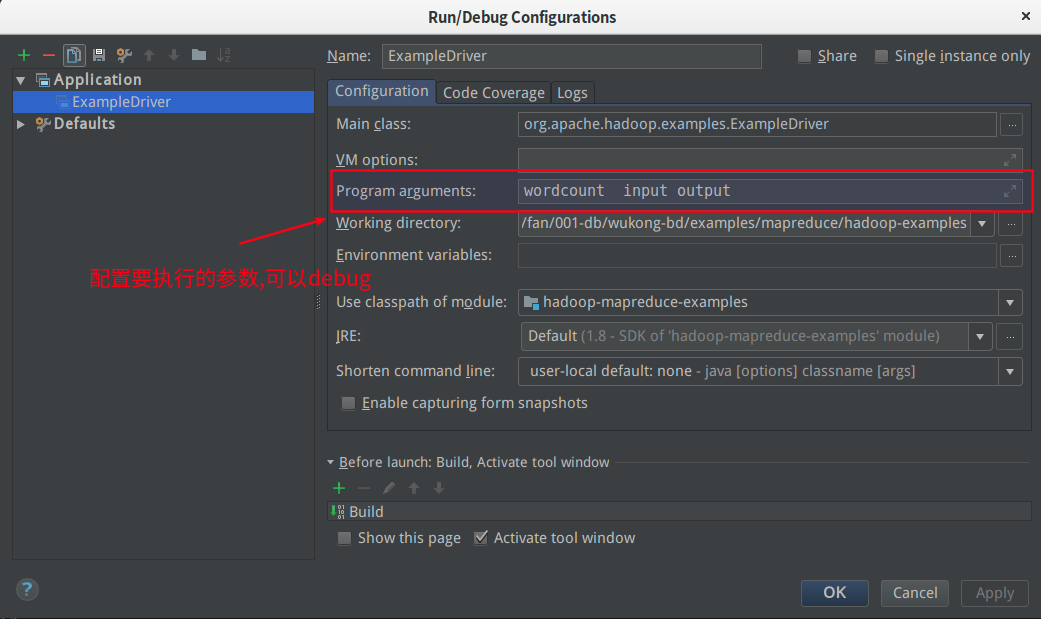
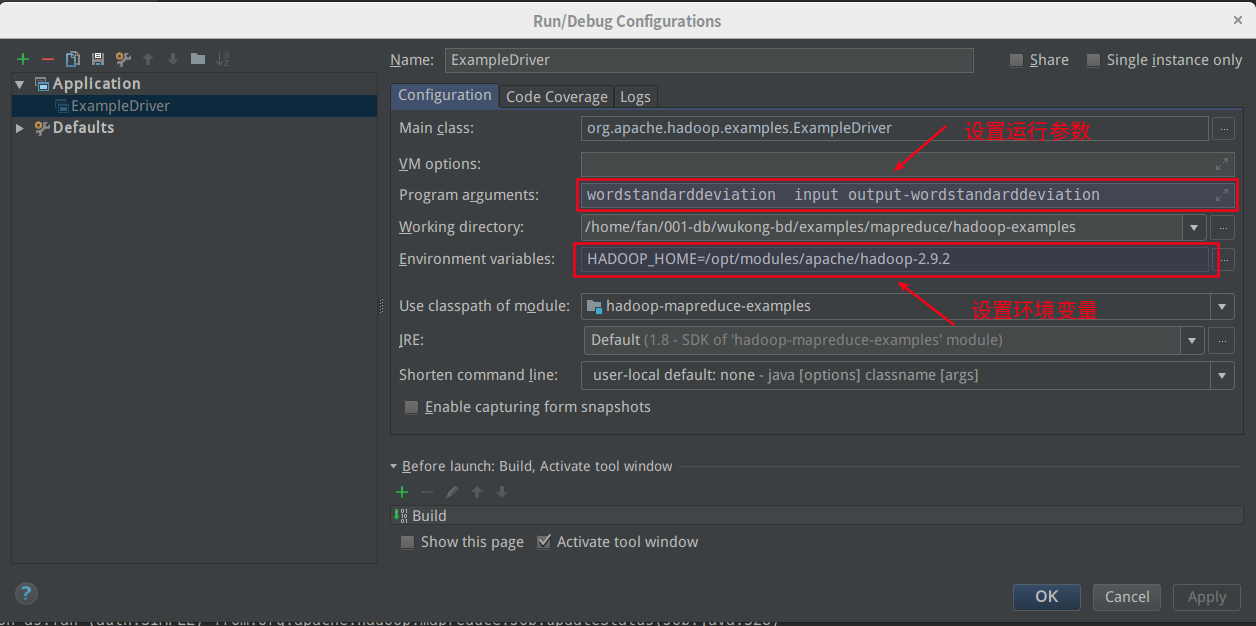
modify docs

diff --git a/examples/mapreduce/hadoop-examples/readme.md b/examples/mapreduce/hadoop-examples/readme.md
@@ -6,7 +6,7 @@
 
 
 
-## 编译
+## 如何建立IDEA工程
 
 从hadoop2.9.2-src包中精简的代码.具体步骤如下:
 
@@ -27,7 +27,7 @@
 
 
 
-> 设置jdk
+### 设置jdk
 
 
 
@@ -35,33 +35,43 @@
 
 
 
-> 配置日志目录与编译环境
+### 配置日志目录与编译环境
 
 ![alt](doc/imgs/project-seting.png)
 
 
 
-> 目录说明
+### 目录说明
 
 ![alt](doc/imgs/dir.png)
 
-
-
-
-
-## 本地运行
-
 将数据文件放到`input`目录中,就可以执行了.
+
+
+
+### 本地运行
 
 建议在本地运行就行了,这个代码不用传到服务器上了.
 
 ![art](doc/imgs/debug-seting.png)
 
+这里要是设置`HADOOP_HOME`,不然有些函数会报错
+
+HADOOP_HOME = /opt/modules/apache/hadoop-2.9.2
 
 
-### 可运行的函数
 
-####  input
+
+
+## 函数说明
+
+###  input数据
+
+只做了简单的测试,下面的函数,有些需要用到更复杂的文件.
+
+
+
+> input/a.txt 文件内容
 
 ```
 a
@@ -76,11 +86,11 @@ hhhhhhhh
 
 
 
-####  output
+###  相关函数
 
 
 
-#####  wordcount
+####  wordcount
 
   * A map/reduce program that counts the words in the input files.
   * 统计字数
@@ -98,7 +108,7 @@ hhhhhhhh	1
 
 
 
-#####  wordmean 
+####  wordmean 
 
   * A map/reduce program that counts the average length of the words in the input files.
   * 统计单词个数,并且输出总长度
@@ -112,7 +122,7 @@ length	36
 
 
 
-#####  wordmedian
+####  wordmedian
 
   * A map/reduce program that counts the median length of the words in the input files.
   * 按照长度,统计每种长度的文字有几个
@@ -131,7 +141,7 @@ length	36
 
 
 
-#####  wordstandarddeviation
+####  wordstandarddeviation
 
   * A map/reduce program that counts the standard deviation of the length of the words in the input files.
   * 标准偏差进行计数
@@ -142,31 +152,31 @@ length	36
 square	204
 ```
 
-##### aggregatewordcount
+#### aggregatewordcount
 
 An Aggregate based map/reduce program that counts the words in the input files.
 
 这个执行不了,因为
 
 ```
-HADOOP_HOME and hadoop.home.dir are unset.
+a.txt not a SequenceFile
 ```
 
 
 
-##### aggregatewordhist
+#### aggregatewordhist
 
 An Aggregate based map/reduce program that computes the histogram of the words in the input files.
 
 这个执行不了,因为
 
 ```
-HADOOP_HOME and hadoop.home.dir are unset.
+a.txt not a SequenceFile
 ```
 
 
 
-##### grep
+#### grep
 
 A map/reduce program that counts the matches of a regex in the input.
 
@@ -174,91 +184,91 @@ A map/reduce program that counts the matches of a regex in the input.
 
 
 
-##### randomwriter
+#### randomwriter
 
 随机写入10GB的数据,为每个节点
 
 A map/reduce program that writes 10GB of random data per node.
 
-##### randomtextwriter
+#### randomtextwriter
 
 A map/reduce program that writes 10GB of random textual data per node.
 
 随机写入10GB的数据,为每个节点
 
-##### sort
+#### sort
 
 A map/reduce program that sorts the data written by the random writer.
 
 这个执行不了,因为
 
 ```
-HADOOP_HOME and hadoop.home.dir are unset.
+a.txt not a SequenceFile
 ```
 
 
 
-##### pi
+#### pi
 
 A map/reduce program that estimates Pi using a quasi-Monte Carlo method.
 
 
 
-##### bbp
+#### bbp
 
 A map/reduce program that uses Bailey-Borwein-Plouffe to compute exact digits of Pi.
 
-##### distbbp
+#### distbbp
 
 A map/reduce program that uses a BBP-type formula to compute exact bits of Pi.
 
-##### pentomino
+#### pentomino
 
 A map/reduce tile laying program to find solutions to pentomino problems.
 
 
 
-##### secondarysort
+#### secondarysort
 
 An example defining a secondary sort to the reduce.
 
 
 
-##### sudoku
+#### sudoku
 
 A sudoku solver.
 
 
 
-##### join
+#### join
 
 A job that effects a join over sorted, equally partitioned datasets
 
 
 
-##### multifilewc
+#### multifilewc
 
 A job that counts words from several files.
 
 
 
-##### dbcount
+#### dbcount
 
 An example job that count the pageview counts from a database.
 
 
 
-##### teragen
+#### teragen
 
 Generate data for the terasort
 
 
 
-##### terasort
+#### terasort
 
 Run the terasort
 
-##### teravalidate
+#### teravalidate
 
 
 
@@ -269,10 +279,6 @@ Checking results of terasort
 
 
 ## 代码分析
-
-
-
-
 
 
 

diff --git a/examples/mapreduce/helloworld/readme.md b/examples/mapreduce/helloworld/readme.md
@@ -2,6 +2,8 @@
 
 这个例子是参考了hadoop官网关于mapreduce介绍文档做出来的.
 
+所有代码都在`ubuntu`上用`IDEA`调试通过,听说`windows`系统有很多小错误要处理.
+
 [官网介绍的具体地址](http://hadoop.apache.org/docs/stable/hadoop-mapreduce-client/hadoop-mapreduce-client-core/MapReduceTutorial.html)
 
 
@@ -72,15 +74,15 @@ TODO: 代码比较简单,那天有空加上中文注释.
 
 按照官网的文档,这个函数有不同的执行方法,并且输出不同的结果.
 
-> 不加过滤文件
+#### 不加过滤特殊字符
 
-参数
+> 参数
 
 ```
 input/wordcount2 output  
 ```
 
-结果
+> 结果
 
 ```
 Bye	1
@@ -97,17 +99,17 @@ to	1
 
 
 
-> 加过滤文件
+#### 过滤掉特殊字符
 
 过滤标点符号与特殊字符
 
-参数
+> 参数
 
 ```
 input/wordcount2 output  -skip input/patterns/patterns.txt
 ```
 
-结果
+> 结果
 
 ```
 Bye	1
@@ -120,17 +122,17 @@ hadoop	1
 
 
 
-> 小写参数
+#### 变成小写后合并统计
 
 都转换成小写了,并且进行了合并.
 
-参数
+> 参数
 
 ```
 -Dwordcount.case.sensitive=false input/wordcount2 output2  -skip input/patterns/patterns.txt
 ```
 
-结果
+> 结果
 
 ```
 bye	1
